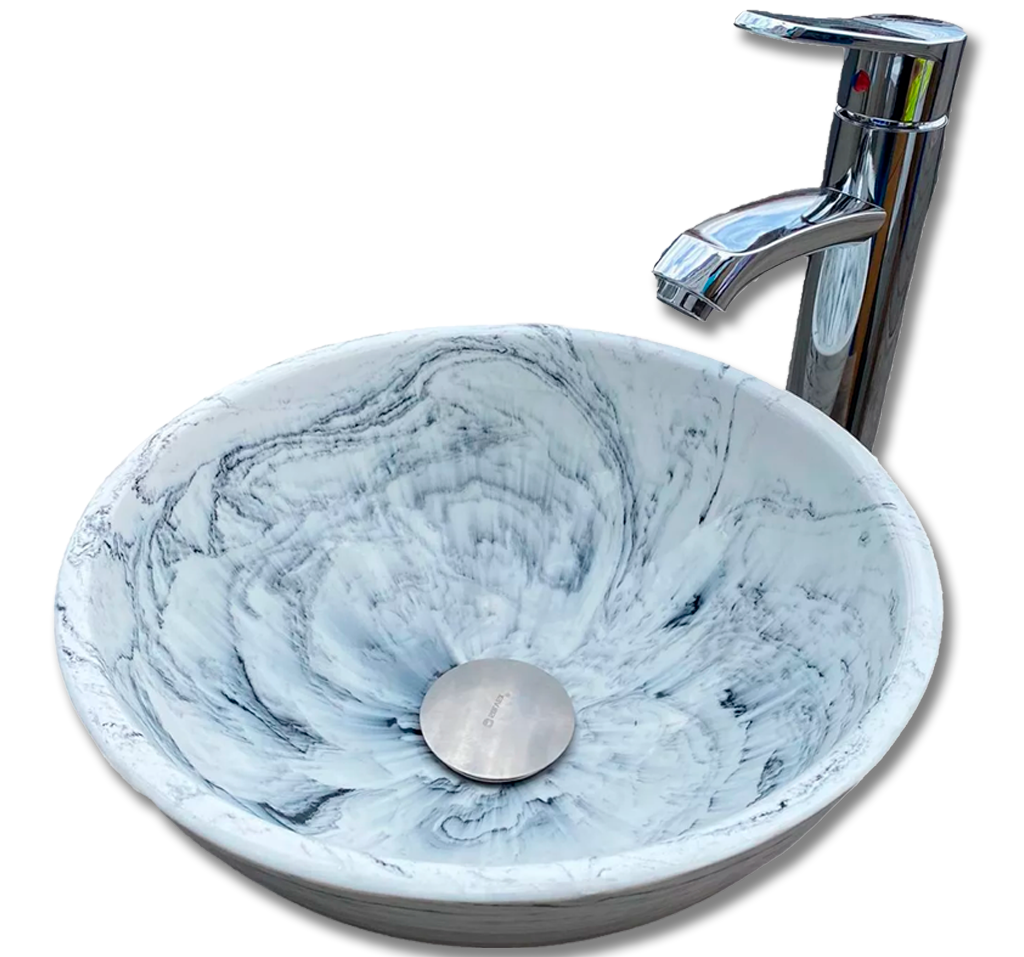
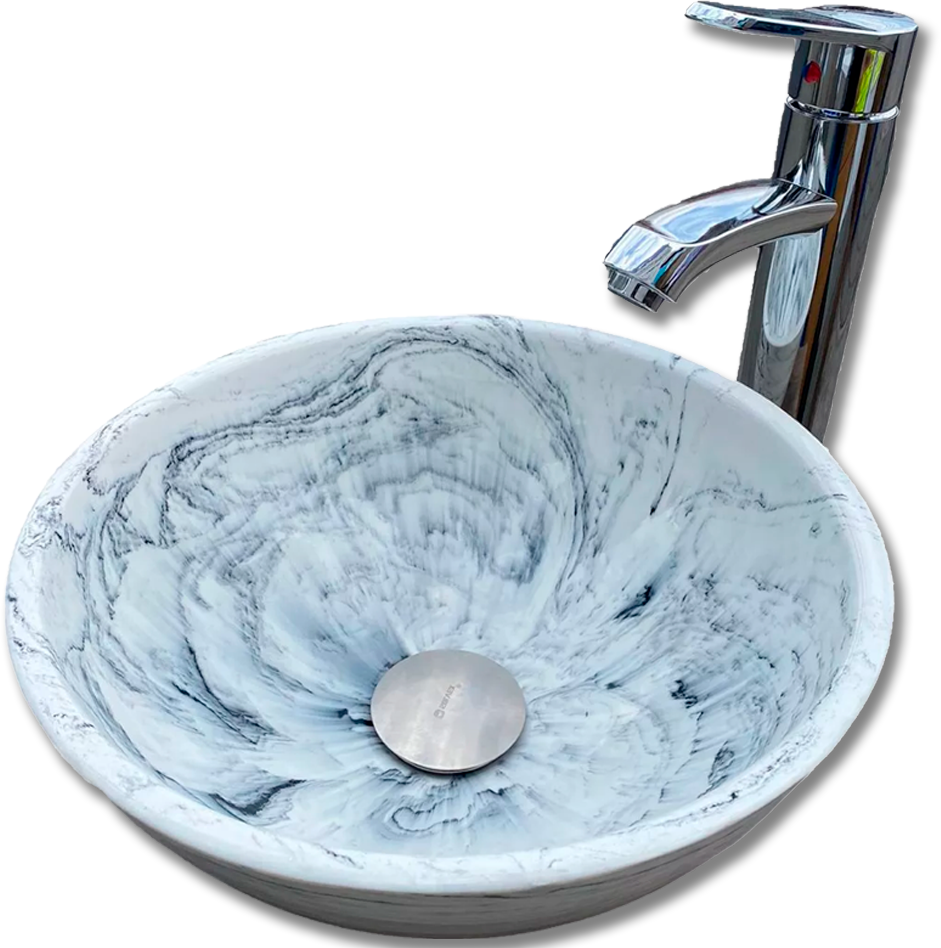
feat(hero): remover recuadros blancos e integrar imágenes aisladas 3D transparentes en el carrusel Hero

diff --git a/components/Home/Hero/index.tsx b/components/Home/Hero/index.tsx
@@ -21,7 +21,7 @@ interface HeroProduct {
 const PRODUCTS: HeroProduct[] = [
   {
     id: 0,
-    src: "/img/hero-ovalin.png",
+    src: "/img/ovalinProd.png",
     bg: "#16466F", // Solimoderm Primary Blue
     ghostText: "SOLIMODERM",
     categoryTag: "OVALINES DE LUJO",
@@ -34,7 +34,7 @@ const PRODUCTS: HeroProduct[] = [
   },
   {
     id: 1,
-    src: "/img/espejoProd.png",
+    src: "/img/hero-espejo-clean-transparent.png",
     bg: "#0E385D", // Solimoderm Midnight Blue
     ghostText: "ESPEJOS LED",
     categoryTag: "ESPEJOS MULTIFUNCIÓN",
@@ -47,7 +47,7 @@ const PRODUCTS: HeroProduct[] = [
   },
   {
     id: 2,
-    src: "/img/hero-mueble.png",
+    src: "/img/hero-mueble-set-transparent.png",
     bg: "#1A507D", // Solimoderm Royal Slate
     ghostText: "MUEBLES 2026",
     categoryTag: "MUEBLES DE BAÑO",
@@ -60,7 +60,7 @@ const PRODUCTS: HeroProduct[] = [
   },
   {
     id: 3,
-    src: "/img/tarjas/tarja-submontable-con-accesorios-t7546-kit-satin.webp",
+    src: "/img/hero-tarja-transparent.png",
     bg: "#113D63", // Solimoderm Deep Marine
     ghostText: "TARJAS CHEF",
     categoryTag: "TARJAS DE COCINA",
